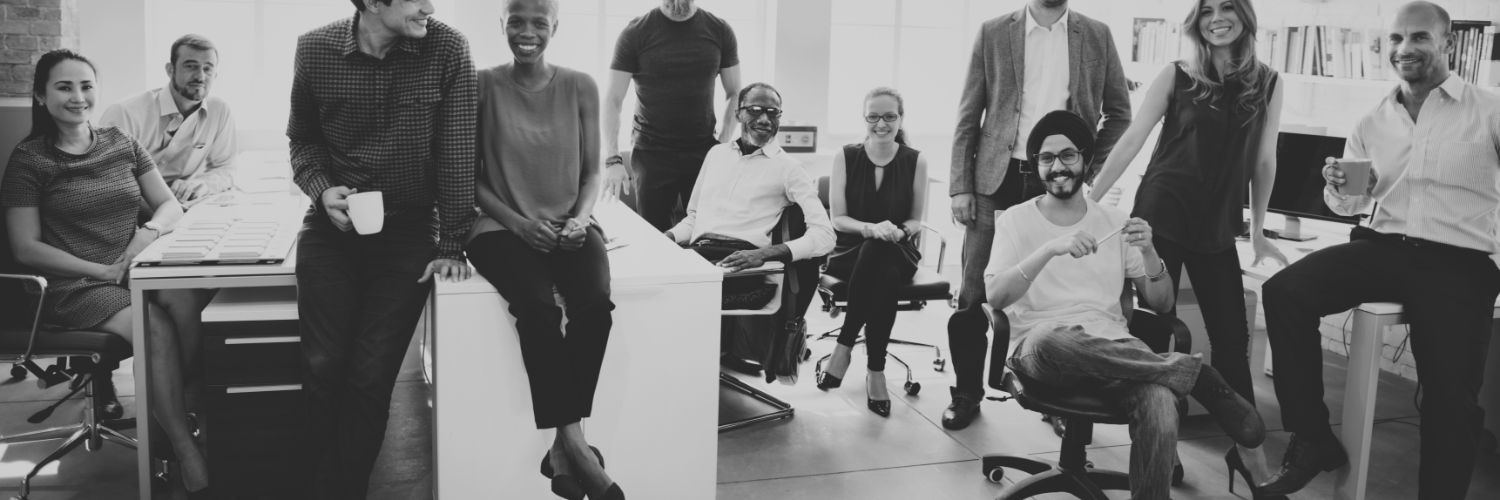
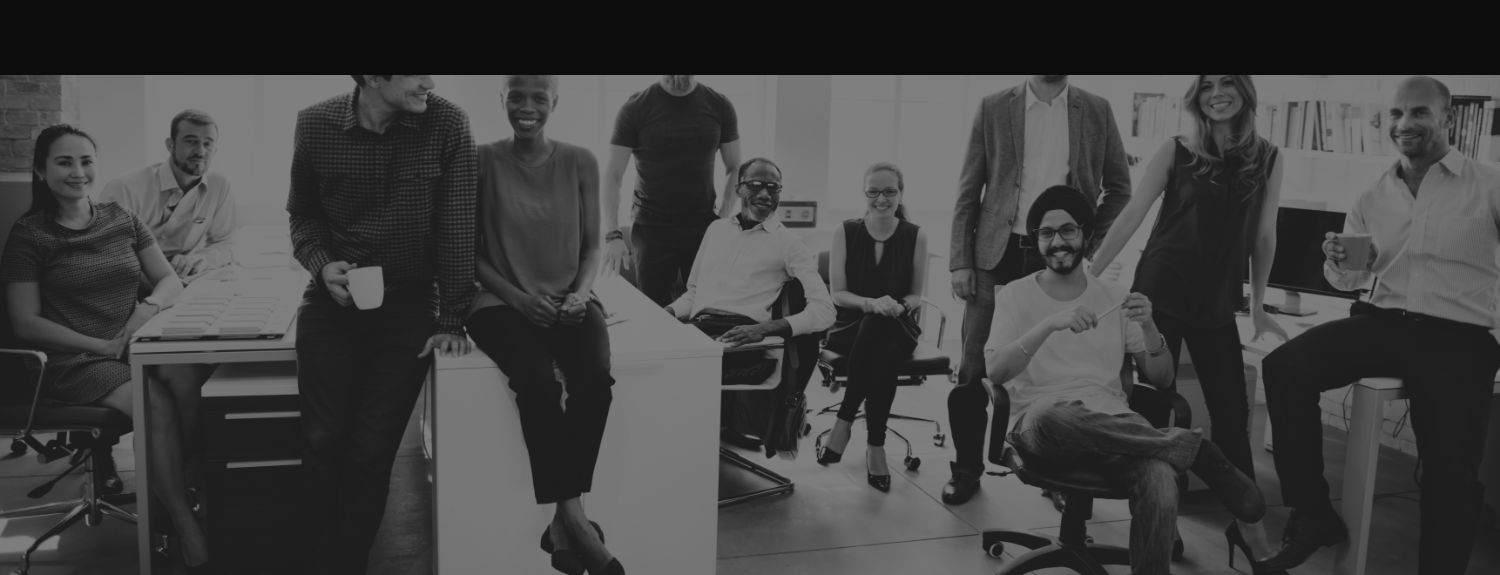
updating master codes

diff --git a/src/assets/Data/Homepage-Data/OurServicesData.js b/src/assets/Data/Homepage-Data/OurServicesData.js
@@ -1,13 +1,3 @@
-// import AiServiceIMG from "../../images/HomePage/our-services/amnet-ai-ml.jpg";
-import DataManagementIMG from "../../images/HomePage/our-services/amnet-data-mgmt.jpg";
-import AdvancedAnalyticsIMG from "../../images/HomePage/our-services/amnet-advanced-analytics.jpg";
-import DataEngineeringIMG from "../../images/HomePage/our-services/amnet-data-engg.jpg";
-import PlatformEngineeringIMG from "../../images/HomePage/our-services/amnet-platform-engg.jpg";
-import UserExperienceIMG from "../../images/HomePage/our-services/amnet-ux-design.jpg";
-import CloudIMG from "../../images/HomePage/our-services/amnet-cloud.jpg";
-import QualityAssuranceIMG from "../../images/HomePage/our-services/amnet-qulaity-assurance.jpg";
-import ConsultingIMG from "../../images/HomePage/our-services/amnet-consulting.jpg";
-import DataAnnotationIMG from "../../images/HomePage/our-services/amnet-data-annotation.jpg";
 
 // NEW HOME OUR SERVICE SECTION
 import AimlDropdownIcon from "../../images/HomePage/our-services/ai-ml-icon.png";
@@ -33,56 +23,56 @@ const OurServicesData = [
         id : "data-management",
         serviceTitle : "Data Management",
         serviceDesc : "Ensuring available, accurate, and accessible data. Transformation needs to take place in the way businesses consume data protection, and cloud needs to be at the center of that evolution.",
-        serviceIMG : DataManagementIMG,
+        // serviceIMG : DataManagementIMG,
         serviceIcon : DataManagementDropdownIcon
     },
     {
         id : "advanced-analytics",
         serviceTitle : "Advanced Analytics",
         serviceDesc : "Uncover complex patterns in your data to anticipate and prepare your business for the next business opportunity.",
-        serviceIMG : AdvancedAnalyticsIMG,
+        // serviceIMG : AdvancedAnalyticsIMG,
         serviceIcon : AdvancedAnalyticsDropdownIcon
     },
     {
         id : "data-engineering",
         serviceTitle : "Data Engineering",
         serviceDesc : "Maximize the value of your data assets by leveraging modern approaches to make extraction of data insights a daily business process.",
-        serviceIMG : DataEngineeringIMG,
+        // serviceIMG : DataEngineeringIMG,
         serviceIcon : DataEngineeringDropdownIcon
     },
     {
         id : "platform-engineering",
         serviceTitle : "Platform Engineering",
         serviceDesc : "Create strategic digital platform solutions that enable your business to go ahead of competition in the digital landscape. Client-focused, easy-to-consume technology solutions lead to tangible business results.",
-        serviceIMG : PlatformEngineeringIMG,
+        // serviceIMG : PlatformEngineeringIMG,
         serviceIcon : PlatformEngineeringDropdownIcon
     },
     {
         id : "user-experience",
         serviceTitle : "User Experience",
         serviceDesc : "Deliver a complete digital experience like a glue binding together all the touch points creating omnichannel experiences using best practices.",
-        serviceIMG : UserExperienceIMG,
+        // serviceIMG : UserExperienceIMG,
         serviceIcon : UXDropdownIcon
     },
     {
         id : "cloud",
         serviceTitle : "Cloud",
         serviceDesc : "Discover the most efficient way to deliver highly available services that can scale with your business growth and keep you ahead of competition.",
-        serviceIMG : CloudIMG,
+        // serviceIMG : CloudIMG,
         serviceIcon : CloudDropdownIcon
     },
     {
         id : "quality-assurance",
         serviceTitle : "Quality Assurance",
         serviceDesc : "Strive for quality shift left and high grade deliverables with optimized COQ (Cost of Quality) and significant Return on Investments (ROI).",
-        serviceIMG : QualityAssuranceIMG,
+        // serviceIMG : QualityAssuranceIMG,
         serviceIcon : QADropdownIcon
     },
     {
         id : "consulting",
         serviceTitle : "Startegy & Consulting",
         serviceDesc : "Propel innovation & accelerate transformation by ensuring that the right digital capabilities are at the heart of everything you do. Every initiative you invest in pervades across the organization.",
-        serviceIMG : ConsultingIMG,
+        // serviceIMG : ConsultingIMG,
         serviceIcon : ConsultingDropdownIcon
     }
     // {

diff --git a/src/assets/components/SubServices/AIML.jsx b/src/assets/components/SubServices/AIML.jsx
@@ -163,38 +163,9 @@ function AIML ({match}){
                                         <SubServiceCareer careerBg={serviceDetail.subCareerBG}/>
                                     )
                                 })}
-
-                               
                             </>
                         );
                     }
 
 export default AIML;
-
-
-// <div key={dataDetail.id} className="service-all-margin" style={{marginTop:"45px"}}>
-//                                         <div className="row" >
-//                                                         <div className="col-xl-6 col-lg-6 col-md-12 col-sm-12 col-xs-12 desc">
-//                                                         <div className="row no-gutters sub-service-img-right-desc">
-//                                                                 <div className="col-xl-2 col-lg-2 col-md-2 col-sm-12 col-xs-12">
-//                                                                     <span>
-//                                                                         <img src= {dataDetail.icon} className="img-fluid about-icons" alt = "end to end" />
-//                                                                     </span>
-//                                                                 </div>
-//                                                                 <div className="col-xl-10 col-lg-10 col-md-10 col-sm-12 col-xs-12">
-//                                                                     <h2>
-//                                                                         {dataDetail.title}
-//                                                                     </h2>
-//                                                                     <p>
-//                                                                         {dataDetail.description}
-//                                                                     </p>
-//                                                                 </div>
-//                                                             </div>
-//                                                             </div>
-//                                                         <div className="col-xl-6 col-lg-6 col-md-12 col-sm-12 col-xs-12">
-//                                                             <img src={dataDetail.imgSrc} alt="image" className="img-fluid" />
-//                                                         </div>
-//                                                     </div>
-//                                     </div>
-
 

diff --git a/src/assets/components/Careers/CareersDetails.jsx b/src/assets/components/Careers/CareersDetails.jsx
@@ -8,7 +8,7 @@ function CareersDetails (){
 
             <div className="careers-page-header text-center mt-5" id="details">
                 {/* <h3 className="section-header" >LET'S DO IT</h3> */}
-                <h1 className="section-title mt-3">WORKING WITH US</h1>     
+                <h1 className="section-title mt-3">WORK WITH US</h1>     
             </div>
 
             <div className="careers-page-details new-all-margin">

diff --git a/src/assets/components/Careers.jsx b/src/assets/components/Careers.jsx
@@ -1,7 +1,7 @@
 import React from "react";
 import {Link} from "react-scroll";
 import {NavLink} from "react-router-dom";
-import CareerBG from "../images/careers-page/careers-bg-1.jpg";
+import CareerBG from "../images/careers-page/careers-bg.jpg";
 import CareersDetails from "./Careers/CareersDetails";
 import OurCulture from "./Careers/OurCulture";
 import WeValueInnovation from "./Careers/WeValueInnovation";
